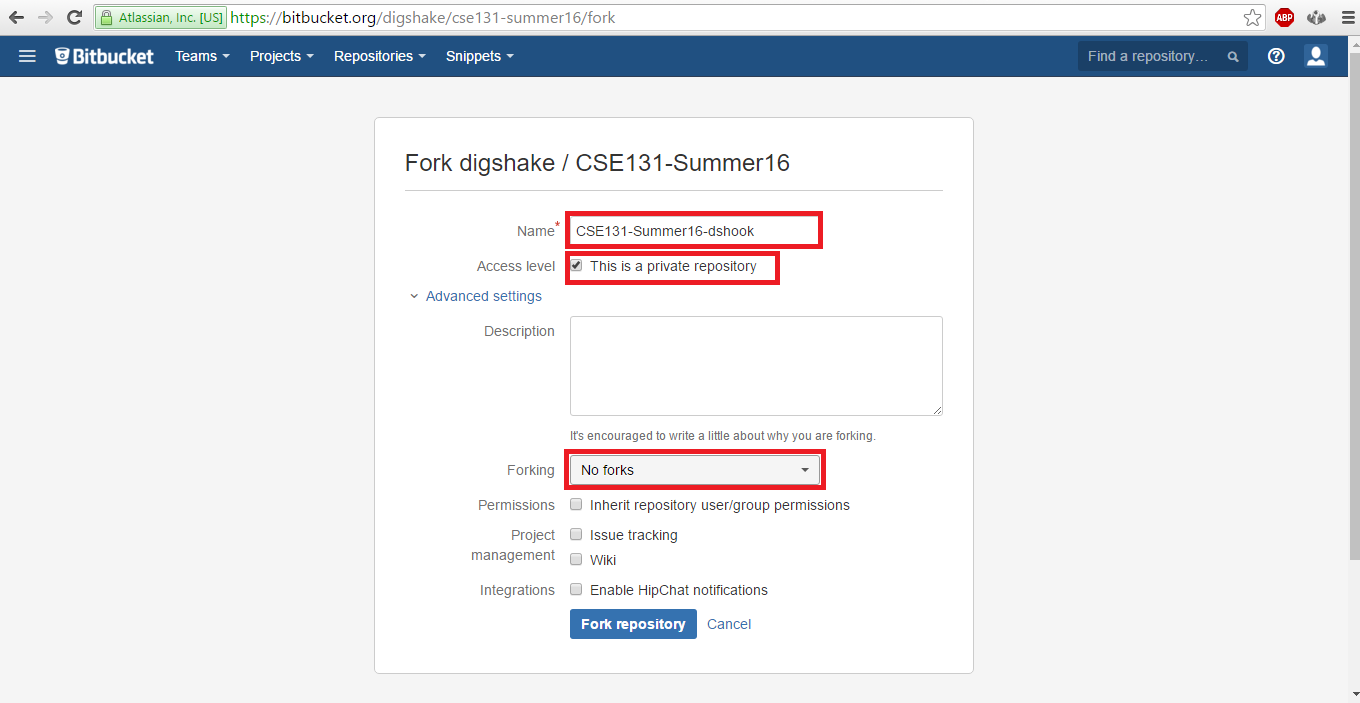
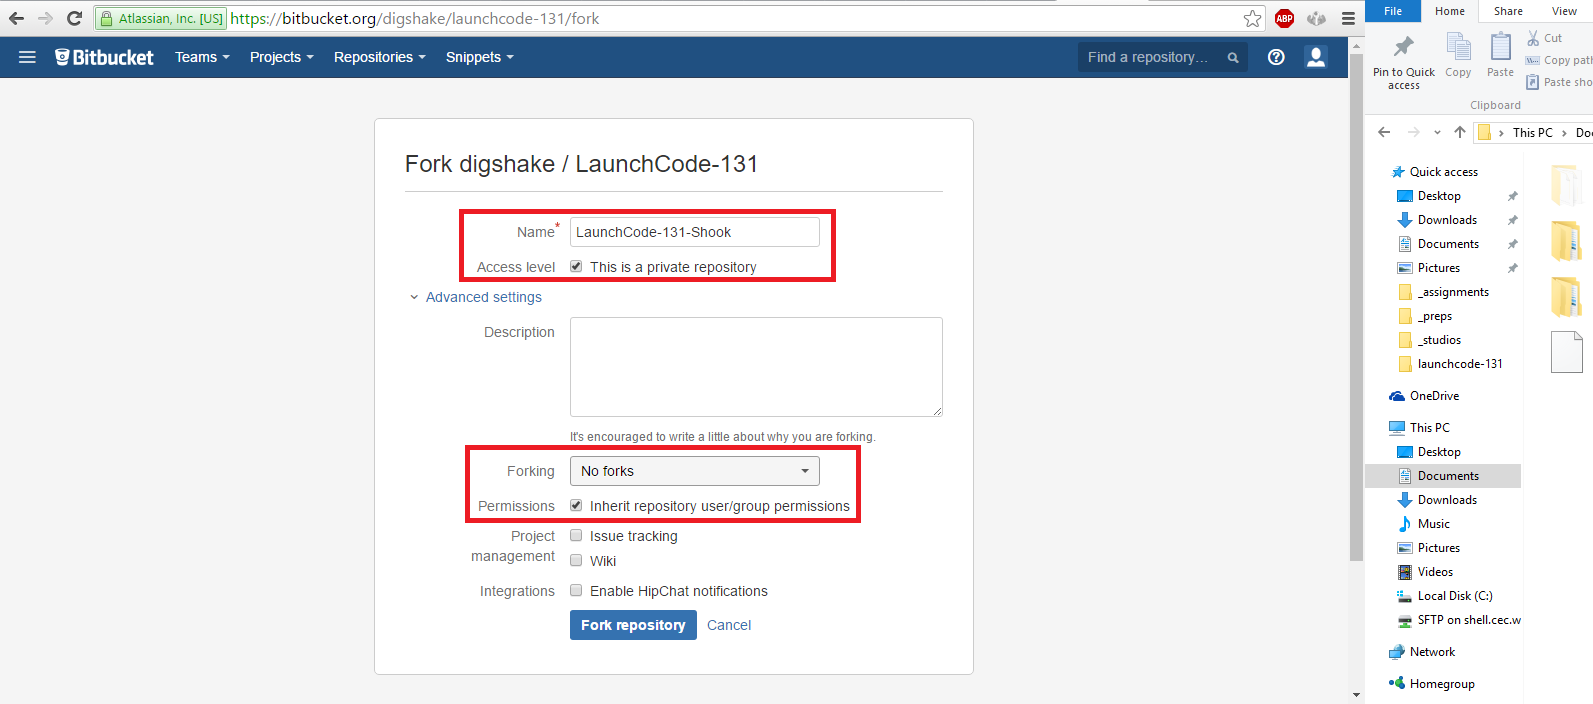
updating gh-pages site

Changed region(s): [[0.0, 0.0, 1.0, 0.9858], [0.2779, 0.5676, 0.6485, 0.926], [0.2471, 0.2091, 0.6176, 0.478]]

diff --git a/weeks/0/prep/index.html b/weeks/0/prep/index.html
@@ -114,7 +114,7 @@
 
 <p><img src="../../../preps/2.png" alt="" /></p>
 
-<p>Add your last name to the name of the repository as shown (please do not use my name!). Make sure the repository is set as private, and set the forking policy to disallow forks.</p>
+<p>Add your last name to the name of the repository as shown (please do not use my name!). Make sure the repository is set as private, and set the forking policy to disallow forks. Make sure the box labelled “Inherit repository user/group permissions” is checked.</p>
 
 <p><img src="../../../preps/3.png" alt="" /></p>
 
@@ -167,7 +167,7 @@
 
 			<footer class="site-footer">
 	<p>
-		<small>Generated at  2016-06-12 12:54:43 -0500</small>.
+		<small>Generated at  2016-06-12 14:33:06 -0500</small>.
 	</p>
 	<p>
 		<small>

diff --git a/index.html b/index.html
@@ -185,7 +185,7 @@ CSE131 is the recommended first course for computer science majors, minors, or a
 
 			<footer class="site-footer">
 	<p>
-		<small>Generated at  2016-06-12 12:54:43 -0500</small>.
+		<small>Generated at  2016-06-12 14:33:06 -0500</small>.
 	</p>
 	<p>
 		<small>

diff --git a/weeks/1/assignment/index.html b/weeks/1/assignment/index.html
@@ -243,7 +243,7 @@ When you print the value it will print as <code class="highlighter-rouge">true</
 
 			<footer class="site-footer">
 	<p>
-		<small>Generated at  2016-06-12 12:54:42 -0500</small>.
+		<small>Generated at  2016-06-12 14:33:05 -0500</small>.
 	</p>
 	<p>
 		<small>

diff --git a/weeks/2/studio/index.html b/weeks/2/studio/index.html
@@ -291,7 +291,7 @@ Try some of these and study their effectiveness in terms of the number of iterat
 
 			<footer class="site-footer">
 	<p>
-		<small>Generated at  2016-06-12 12:54:43 -0500</small>.
+		<small>Generated at  2016-06-12 14:33:06 -0500</small>.
 	</p>
 	<p>
 		<small>

diff --git a/weeks/4/studio/index.html b/weeks/4/studio/index.html
@@ -221,7 +221,7 @@ If you want the file to open without the user having to choose it, then replace 
 
 			<footer class="site-footer">
 	<p>
-		<small>Generated at  2016-06-12 12:54:43 -0500</small>.
+		<small>Generated at  2016-06-12 14:33:06 -0500</small>.
 	</p>
 	<p>
 		<small>

diff --git a/weeks/6/assignment/index.html b/weeks/6/assignment/index.html
@@ -155,7 +155,7 @@ you take one down, pass it around, <em>n-2</em> bottles of beer on the wall.</p>
 
 			<footer class="site-footer">
 	<p>
-		<small>Generated at  2016-06-12 12:54:43 -0500</small>.
+		<small>Generated at  2016-06-12 14:33:05 -0500</small>.
 	</p>
 	<p>
 		<small>

diff --git a/weeks/3/assignment/index.html b/weeks/3/assignment/index.html
@@ -268,7 +268,7 @@ Consider the example shown in Figure 1. After the first throw, we have:</p>
 
 			<footer class="site-footer">
 	<p>
-		<small>Generated at  2016-06-12 12:54:42 -0500</small>.
+		<small>Generated at  2016-06-12 14:33:05 -0500</small>.
 	</p>
 	<p>
 		<small>

diff --git a/weeks/3/studio/index.html b/weeks/3/studio/index.html
@@ -107,7 +107,7 @@ Primes under 50 = 2, 3, 5, 7, 11, 13, 17, 19, 23, 29, 31, 37, 41, 43, 47
 
 			<footer class="site-footer">
 	<p>
-		<small>Generated at  2016-06-12 12:54:43 -0500</small>.
+		<small>Generated at  2016-06-12 14:33:06 -0500</small>.
 	</p>
 	<p>
 		<small>

diff --git a/weeks/5/studio/index.html b/weeks/5/studio/index.html
@@ -250,7 +250,7 @@ done.  You will see the methods provided to you have this already.</li>
 
 			<footer class="site-footer">
 	<p>
-		<small>Generated at  2016-06-12 12:54:43 -0500</small>.
+		<small>Generated at  2016-06-12 14:33:06 -0500</small>.
 	</p>
 	<p>
 		<small>

diff --git a/weeks/3/ext/index.html b/weeks/3/ext/index.html
@@ -312,7 +312,7 @@ of the <code class="highlighter-rouge">extensions</code> folder.</p>
 
 			<footer class="site-footer">
 	<p>
-		<small>Generated at  2016-06-12 12:54:43 -0500</small>.
+		<small>Generated at  2016-06-12 14:33:06 -0500</small>.
 	</p>
 	<p>
 		<small>

diff --git a/weeks/1/ext/index.html b/weeks/1/ext/index.html
@@ -644,7 +644,7 @@ as the menu choice but the <em>Go</em> button was not pressed.</p>
 
 			<footer class="site-footer">
 	<p>
-		<small>Generated at  2016-06-12 12:54:43 -0500</small>.
+		<small>Generated at  2016-06-12 14:33:06 -0500</small>.
 	</p>
 	<p>
 		<small>

diff --git a/weeks/5/assignment/index.html b/weeks/5/assignment/index.html
@@ -210,7 +210,7 @@ typing <strong>/</strong>** above a method declaration.</p>
 
 			<footer class="site-footer">
 	<p>
-		<small>Generated at  2016-06-12 12:54:42 -0500</small>.
+		<small>Generated at  2016-06-12 14:33:05 -0500</small>.
 	</p>
 	<p>
 		<small>
